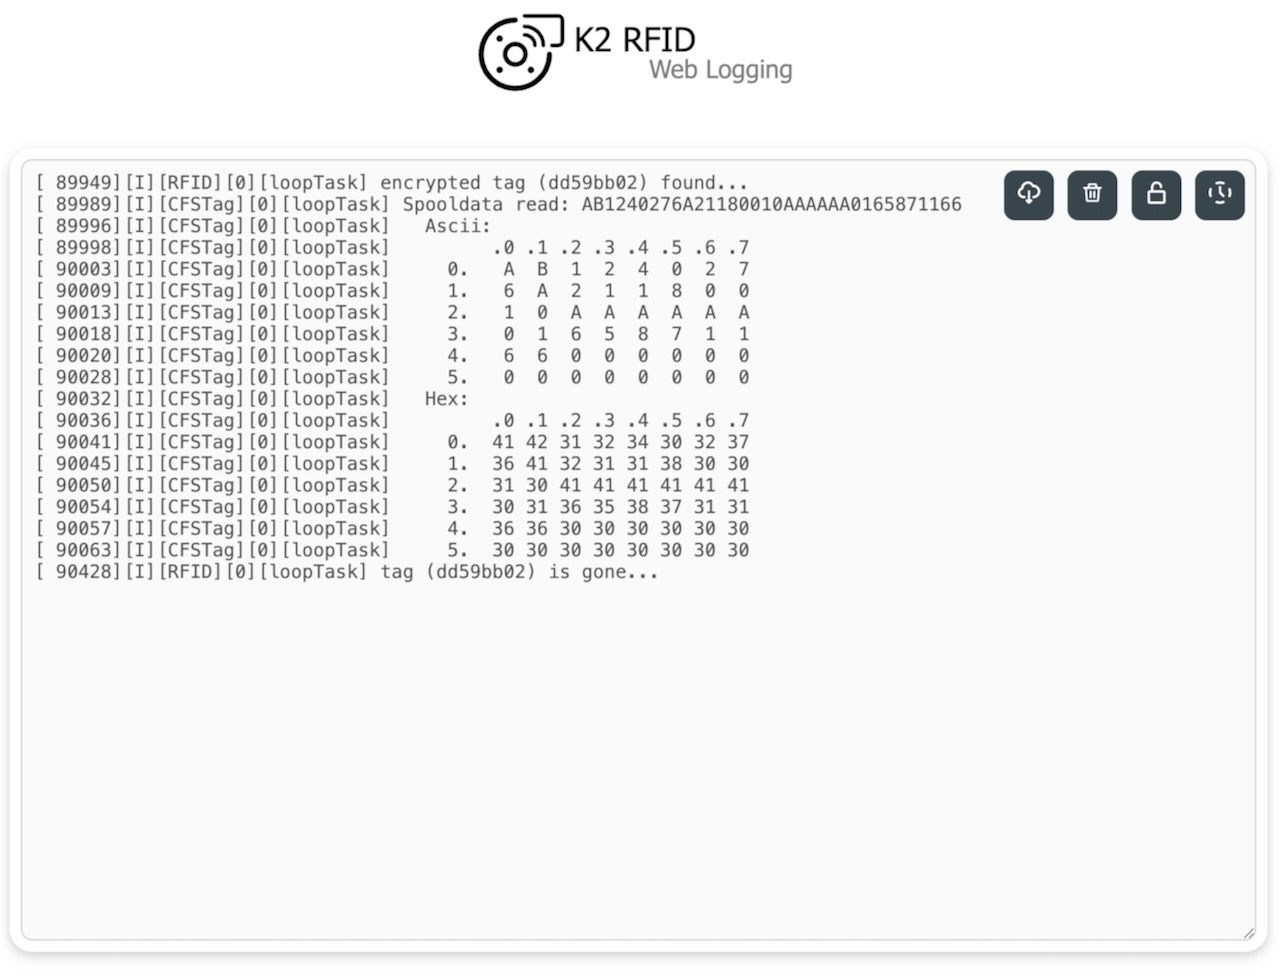
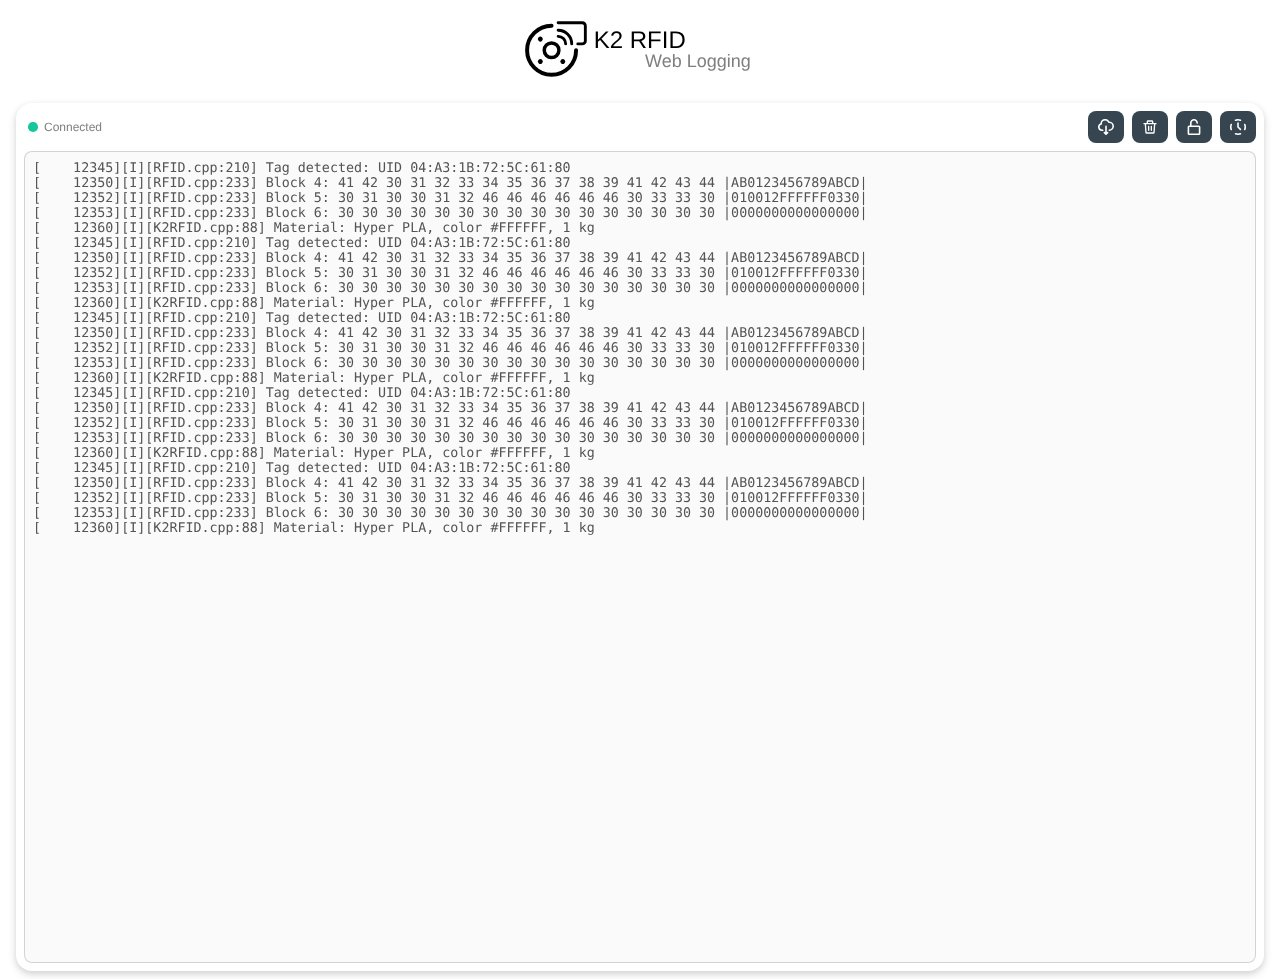
v1.3.1-beta: changelog and README screenshot for the web log changes

diff --git a/CHANGELOG.md b/CHANGELOG.md
@@ -12,6 +12,13 @@
 
 - When the SSH download fails, the message now says why (timeout, SSH error, database too large, file system full) and includes the free memory and PSRAM. Before, it only said "Not enough memory to start the download" or "Error while downloading the database" (#8).
 
+### Web log
+
+- The four buttons (download, clear, pause auto-scrolling, time-stamps) sit in their own toolbar row next to the connection status instead of covering the log. The log fills the remaining height, active toggles are highlighted and the buttons stay visible on phones.
+- The buttons of the embedded web log did nothing, because the minifier renamed the functions the inline `onclick` handlers pointed to. They are now bound in JavaScript.
+- Time-stamped lines no longer get an extra blank line.
+- The toasts look the same as in the main web app; Toastify is no longer needed and was removed from the file system image.
+
 ### Variant: reserved stack
 
 This pre-release comes in two variants for every board:
